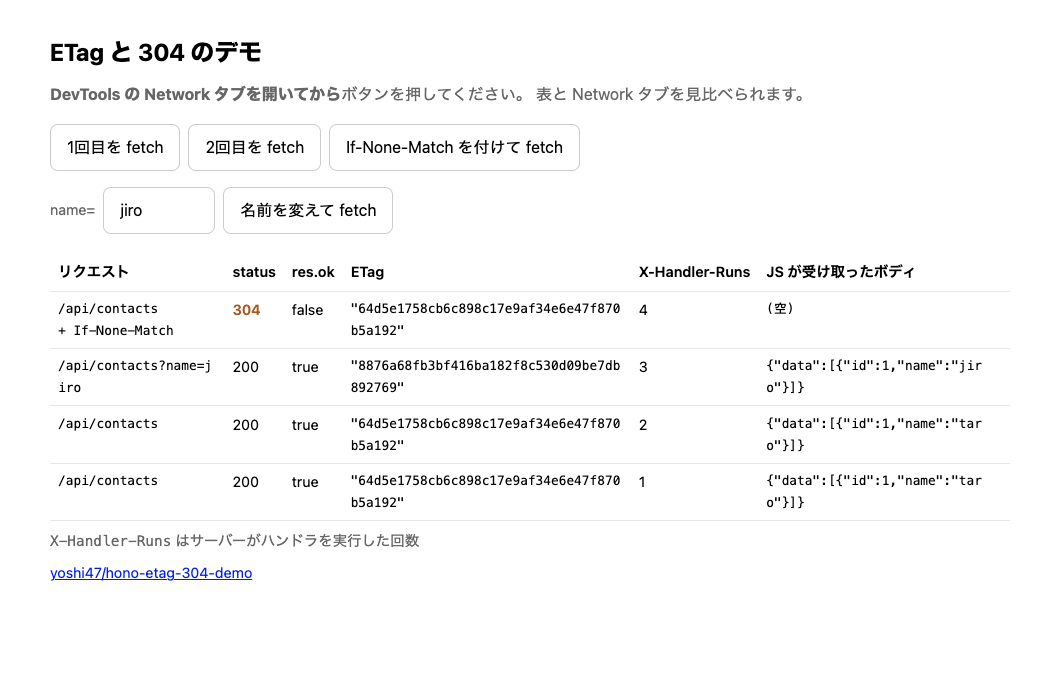
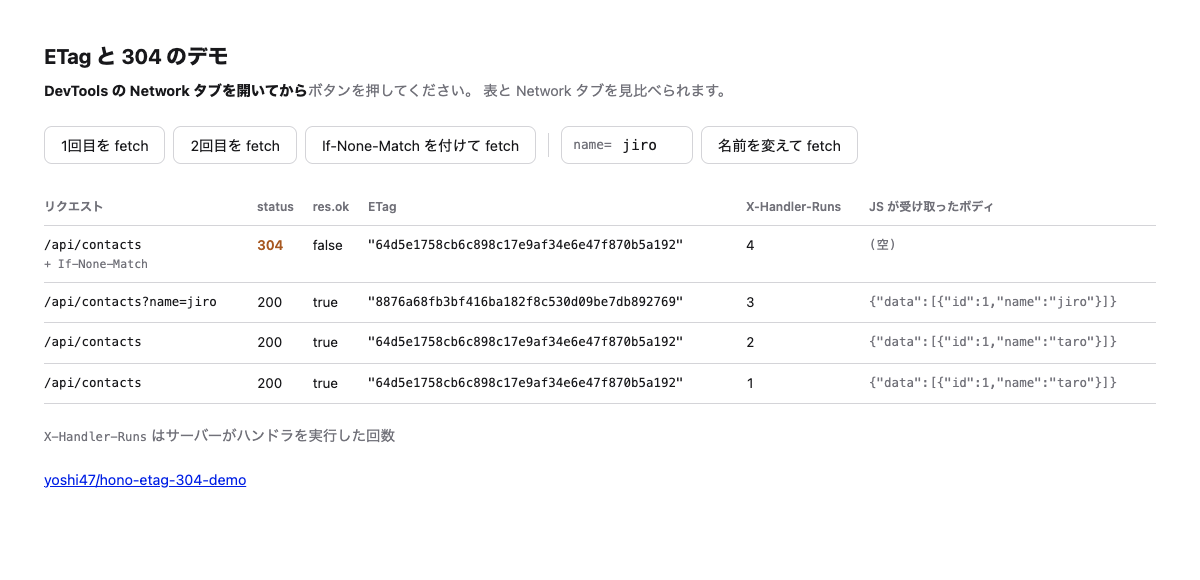
Line up the controls and stop the table cells from wrapping

diff --git a/src/page.js b/src/page.js
@@ -5,39 +5,79 @@ export const page = `<!doctype html>
 <meta name="viewport" content="width=device-width, initial-scale=1">
 <title>ETag と 304 のデモ</title>
 <style>
-  :root { color-scheme: light dark; }
+  :root {
+    --fg: #18181b;
+    --muted: #71717a;
+    --line: #d4d4d8;
+    --surface: #fff;
+    --hover: #f4f4f5;
+    --accent: #b45309;
+    color-scheme: light dark;
+  }
+  @media (prefers-color-scheme: dark) {
+    :root {
+      --fg: #e4e4e7;
+      --muted: #a1a1aa;
+      --line: #3f3f46;
+      --surface: #27272a;
+      --hover: #3f3f46;
+      --accent: #fbbf24;
+    }
+  }
   * { box-sizing: border-box; }
   body {
-    margin: 0 auto; max-width: 62rem; padding: 2rem 1rem 4rem;
+    margin: 0 auto; max-width: 72rem; padding: 2.5rem 1.25rem 4rem;
+    color: var(--fg); font-size: 1rem; line-height: 1.6;
     font-family: -apple-system, BlinkMacSystemFont, "Segoe UI", "Hiragino Sans", "Noto Sans JP", sans-serif;
-    line-height: 1.7;
   }
-  h1 { font-size: 1.5rem; margin: 0 0 .5rem; }
-  p { margin: .5rem 0; }
-  .lead, .hint { color: #666; }
-  .hint { font-size: .9rem; }
-  .buttons { display: flex; flex-wrap: wrap; align-items: center; gap: .5rem; margin: 1rem 0 0; }
-  button, input {
-    font: inherit; padding: .55rem 1rem; border-radius: .5rem;
-    border: 1px solid #ccc; background: #fff;
+  h1 { margin: 0 0 .35rem; font-size: 1.3rem; font-weight: 700; }
+  .lead, .hint { margin: 0; color: var(--muted); font-size: .9rem; }
+  .lead strong { color: var(--fg); }
+  .hint { margin-top: 1.25rem; }
+  code, .mono { font-family: ui-monospace, SFMono-Regular, Menlo, monospace; }
+  code { font-size: .85em; }
+
+  .controls { display: flex; flex-wrap: wrap; align-items: center; gap: .5rem; margin-top: 1.5rem; }
+  .sep { width: 1px; height: 1.5rem; margin: 0 .25rem; background: var(--line); flex: none; }
+
+  button, .field {
+    height: 2.4rem;
+    border: 1px solid var(--line);
+    border-radius: .5rem;
+    background: var(--surface);
   }
-  button { cursor: pointer; }
-  button:hover { background: #f3f4f6; }
-  input { width: 7rem; }
-  table { border-collapse: collapse; width: 100%; margin-top: 1.25rem; font-size: .9rem; }
-  th, td { border-bottom: 1px solid #e5e7eb; padding: .4rem .5rem; text-align: left; vertical-align: top; }
-  th { font-weight: 600; white-space: nowrap; }
-  td.mono { font-family: ui-monospace, SFMono-Regular, Menlo, monospace; font-size: .8rem; word-break: break-all; }
-  td.req { white-space: pre-line; }
-  td.s304 { color: #b45309; font-weight: 600; }
-  code { font-family: ui-monospace, SFMono-Regular, Menlo, monospace; }
-  @media (prefers-color-scheme: dark) {
-    body { background: #111; color: #eee; }
-    .lead, .hint { color: #aaa; }
-    button, input { background: #1f2937; color: #eee; border-color: #444; }
-    button:hover { background: #374151; }
-    th, td { border-color: #333; }
+  button {
+    padding: 0 1rem; color: inherit; font: inherit; font-size: .9rem;
+    cursor: pointer; transition: background .12s, border-color .12s;
   }
+  button:hover { background: var(--hover); }
+  button:focus-visible { outline: 2px solid var(--accent); outline-offset: 1px; }
+  .field:focus-within { border-color: var(--accent); }
+
+  .field { display: inline-flex; align-items: center; overflow: hidden; }
+  .field .prefix {
+    padding-left: .7rem; color: var(--muted);
+    font-family: ui-monospace, SFMono-Regular, Menlo, monospace; font-size: .8rem;
+  }
+  .field input {
+    width: 5rem; height: 100%; padding: 0 .65rem; border: 0; background: transparent;
+    color: inherit; font: inherit; font-size: .9rem;
+    font-family: ui-monospace, SFMono-Regular, Menlo, monospace;
+  }
+  .field input:focus { outline: none; }
+
+  .table-wrap { overflow-x: auto; margin-top: 1.5rem; }
+  table { width: 100%; border-collapse: collapse; font-size: .85rem; }
+  th, td { padding: .55rem .7rem .55rem 0; text-align: left; vertical-align: top; border-bottom: 1px solid var(--line); }
+  th { color: var(--muted); font-size: .75rem; font-weight: 600; white-space: nowrap; }
+  td { white-space: nowrap; }
+  td:last-child, th:last-child { padding-right: 0; }
+  tbody tr:hover { background: var(--hover); }
+  td.cell-mono { font-family: ui-monospace, SFMono-Regular, Menlo, monospace; font-size: .78rem; }
+  td.cell-num { font-variant-numeric: tabular-nums; }
+  td.cell-s304 { color: var(--accent); font-weight: 600; }
+  .sub { display: block; color: var(--muted); font-size: .72rem; }
+  td.cell-body { color: var(--muted); }
 </style>
 </head>
 <body>
@@ -47,79 +87,89 @@ export const page = `<!doctype html>
   表と Network タブを見比べられます。
 </p>
 
-<div class="buttons">
+<div class="controls">
   <button id="first">1回目を fetch</button>
   <button id="second">2回目を fetch</button>
   <button id="manual">If-None-Match を付けて fetch</button>
-</div>
-<div class="buttons">
-  <span class="hint">name=</span>
-  <input id="name" value="jiro">
+  <span class="sep"></span>
+  <label class="field">
+    <span class="prefix">name=</span>
+    <input id="name" value="jiro" spellcheck="false" aria-label="name">
+  </label>
   <button id="rename">名前を変えて fetch</button>
 </div>
 
-<table>
-  <thead>
-    <tr>
-      <th>リクエスト</th><th>status</th><th>res.ok</th><th>ETag</th><th>X-Handler-Runs</th><th>JS が受け取ったボディ</th>
-    </tr>
-  </thead>
-  <tbody id="rows"></tbody>
-</table>
+<div class="table-wrap">
+  <table>
+    <thead>
+      <tr>
+        <th>リクエスト</th><th>status</th><th>res.ok</th><th>ETag</th><th>X-Handler-Runs</th><th>JS が受け取ったボディ</th>
+      </tr>
+    </thead>
+    <tbody id="rows"></tbody>
+  </table>
+</div>
 <p class="hint">
   <code>X-Handler-Runs</code> はサーバーがハンドラを実行した回数
 </p>
-
-<p class="hint"><a href="https://github.com/yoshi47/hono-etag-304-demo">yoshi47/hono-etag-304-demo</a></p>
+<p class="hint">
+  <a href="https://github.com/yoshi47/hono-etag-304-demo">yoshi47/hono-etag-304-demo</a>
+</p>
 
 <script>
 const rows = document.getElementById('rows')
 const etags = {}
 const plain = '/api/contacts'
 
-function addRow(request, status, ok, etag, runs, body) {
-  const values = [
-    { text: request, cls: 'mono req' },
-    { text: String(status), cls: status === 304 ? 's304' : '' },
-    { text: String(ok), cls: '' },
-    { text: etag || '-', cls: 'mono' },
-    { text: runs || '-', cls: '' },
-    { text: body || '(空)', cls: 'mono' },
-  ]
+function cell(cls, text) {
+  const td = document.createElement('td')
+  if (cls) td.className = cls
+  td.textContent = text
+  return td
+}
+
+function addRow(req, status, ok, etag, runs, body) {
   const tr = document.createElement('tr')
-  values.forEach(function (v) {
-    const td = document.createElement('td')
-    td.textContent = v.text
-    if (v.cls) td.className = v.cls
-    tr.appendChild(td)
-  })
+  const tdReq = cell('cell-mono', req.url)
+  if (req.header) {
+    const sub = document.createElement('span')
+    sub.className = 'sub'
+    sub.textContent = '+ ' + req.header
+    tdReq.appendChild(sub)
+  }
+  tr.appendChild(tdReq)
+  tr.appendChild(cell('cell-num' + (status === 304 ? ' cell-s304' : ''), String(status)))
+  tr.appendChild(cell('cell-num', String(ok)))
+  tr.appendChild(cell('cell-mono', etag || '—'))
+  tr.appendChild(cell('cell-num', String(runs || '—')))
+  tr.appendChild(cell('cell-mono cell-body', body || '(空)'))
   rows.prepend(tr)
 }
 
-async function run(path, request, init) {
+async function run(path, req, init) {
   const res = await fetch(path, init)
   const body = await res.text()
   const etag = res.headers.get('etag')
   if (etag) etags[path] = etag
-  addRow(request, res.status, res.ok, etag, res.headers.get('x-handler-runs'), body)
+  addRow(req, res.status, res.ok, etag, res.headers.get('x-handler-runs'), body)
 }
 
 document.getElementById('first').addEventListener('click', function () {
-  run(plain, plain, undefined)
+  run(plain, { url: plain }, undefined)
 })
 
 document.getElementById('second').addEventListener('click', function () {
-  run(plain, plain, undefined)
+  run(plain, { url: plain }, undefined)
 })
 
 document.getElementById('manual').addEventListener('click', async function () {
-  if (!etags[plain]) await run(plain, plain, undefined)
-  await run(plain, plain + '\\n+ If-None-Match', { headers: { 'If-None-Match': etags[plain] } })
+  if (!etags[plain]) await run(plain, { url: plain }, undefined)
+  await run(plain, { url: plain, header: 'If-None-Match' }, { headers: { 'If-None-Match': etags[plain] } })
 })
 
 document.getElementById('rename').addEventListener('click', function () {
   const path = plain + '?name=' + encodeURIComponent(document.getElementById('name').value)
-  run(path, path, undefined)
+  run(path, { url: path }, undefined)
 })
 </script>
 </body>
